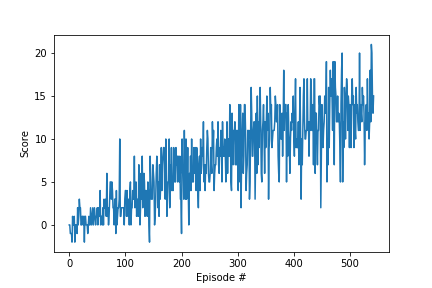
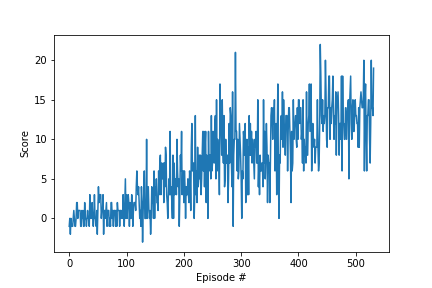
Modified latest checkpoints

diff --git a/DQN/dqn_agent.py b/DQN/dqn_agent.py
@@ -9,10 +9,10 @@ import torch.nn.functional as F
 import torch.optim as optim
 
 BUFFER_SIZE = int(1e5)  # replay buffer size
-BATCH_SIZE = 128         # minibatch size
+BATCH_SIZE = 64         # minibatch size
 GAMMA = 0.99            # discount factor
 TAU = 1e-3              # for soft update of target parameters
-LR = 4e-4               # learning rate 
+LR = 5e-4               # learning rate 
 UPDATE_EVERY = 4        # how often to update the network
 
 device = torch.device("cuda:0" if torch.cuda.is_available() else "cpu")
